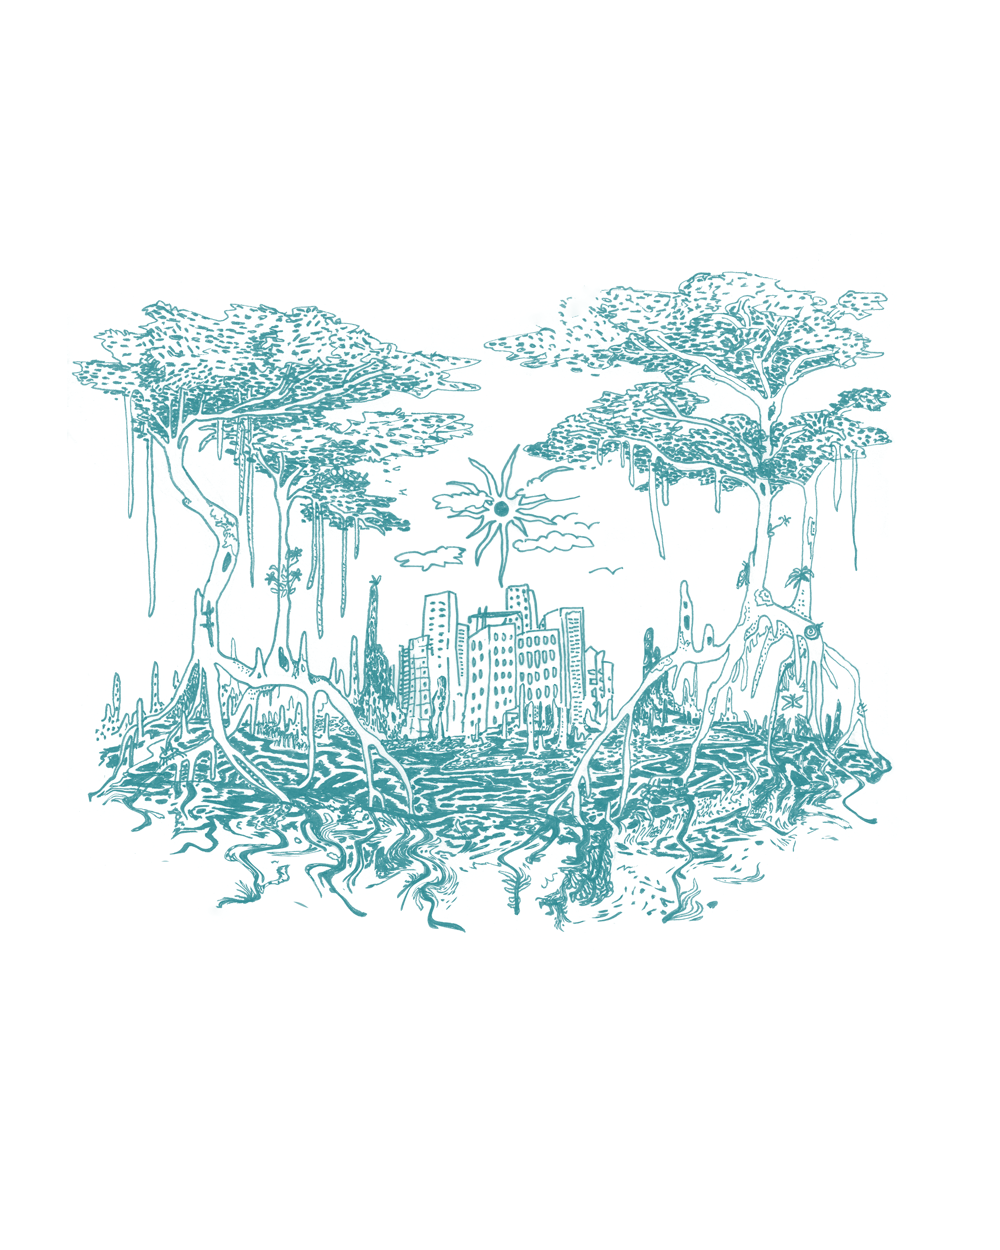
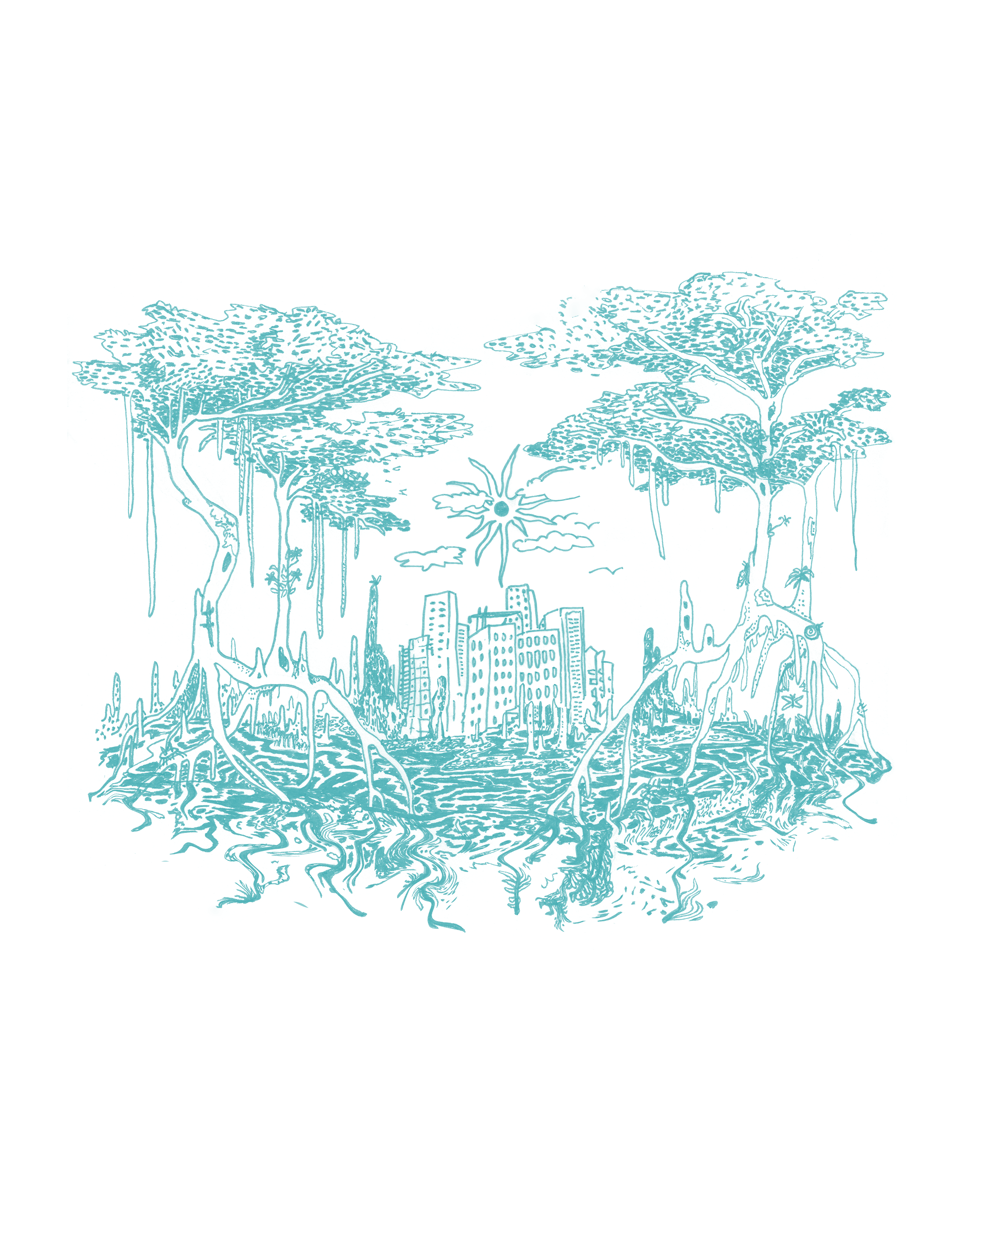
Fix mobile artwork scaling, brighter turquoise, pink button
The artwork stayed frozen on phones because the transform was applied to
the position:fixed element itself. Mobile browsers hoist fixed elements
into their own compositing layer and do not reliably re-rasterise them
during a scroll gesture, so the transform never showed. Pinning and
transforming are now separate elements: the fixed wrapper holds position,
an absolutely positioned child does the scaling.

Artwork retinted to a brighter turquoise and its starting opacity raised,
with the fade factor retuned so the faded end state lands where it
already was rather than rising with it.

Type reverted to the warm off-white. Sign-in button takes the mark's rose.

Changed region(s): [[0.093, 0.2184, 0.899, 0.7488], [0.744, 0.4368, 0.806, 0.468], [0.217, 0.7176, 0.248, 0.7488]]

diff --git a/app/globals.css b/app/globals.css
@@ -23,14 +23,15 @@
 
   /* Deep teal-black water, warm rose-tinted light. */
   --background: #0d1e20;
-  /* Type takes the same rose as the mark, so the palette reads as one system. */
-  --foreground: #ecc5c9;
-  --muted: #bb99a0;
+  --foreground: #e9dcdd;
+  --muted: #92a9ab;
   --accent: var(--teal-mid);
   --accent-contrast: #06181a;
   --hairline: #244145;
   --card: rgba(16, 38, 41, 0.72);
-  --artwork-opacity: 0.56;
+  /* Start brighter; the fade factor below is tuned so the faded end state lands
+     where it already was rather than rising with it. */
+  --artwork-opacity: 0.67;
   /* The inspo pink, which is exactly what it was printed for: rose on teal. */
   --mark: var(--rose);
 }
@@ -82,23 +83,37 @@ body {
   progress, published by ScrollProgress: the artwork shrinks and fades as the
   panel rises to cover it.
 */
+/*
+  Two elements on purpose. Mobile browsers hoist position:fixed elements into
+  their own compositing layer and do not reliably re-rasterise them during a
+  scroll gesture, so a transform applied to the fixed element itself can simply
+  never appear — which is why this animated on desktop and stayed frozen on a
+  phone. The outer element does the pinning; a normal absolutely positioned
+  child does the moving.
+*/
 .artwork-veil {
   position: fixed;
   inset: 0;
   z-index: 0;
   pointer-events: none;
+  overflow: hidden;
+}
+
+.artwork-veil-inner {
+  position: absolute;
+  inset: 0;
   background-image: url("/mangrove-teal.webp");
   background-repeat: no-repeat;
   background-position: center -4svh;
   background-size: auto min(128svh, 235vw);
-  opacity: calc(var(--artwork-opacity) * (1 - var(--sp, 0) * 0.4));
+  opacity: calc(var(--artwork-opacity) * (1 - var(--sp, 0) * 0.5));
   transform: scale(calc(1 - var(--sp, 0) * 0.33));
   transform-origin: center 32%;
   will-change: transform, opacity;
 }
 
 @media (min-width: 768px) {
-  .artwork-veil {
+  .artwork-veil-inner {
     background-position: center -13svh;
     /* Hard ceiling so a fullscreen window does not keep growing the drawing
        while the type stays put, which opens a gap under the title. */

diff --git a/app/page.tsx b/app/page.tsx
@@ -9,7 +9,9 @@ export default async function Home() {
       <ScrollProgress />
 
       {/* Mangrove roots holding a city — the thesis, drawn. Purely decorative. */}
-      <div className="artwork-veil" aria-hidden="true" />
+      <div className="artwork-veil" aria-hidden="true">
+        <div className="artwork-veil-inner" />
+      </div>
 
       <section className="hero px-6">
         <div className="rise mx-auto w-full max-w-md">
@@ -71,7 +73,7 @@ export default async function Home() {
                 >
                   <button
                     type="submit"
-                    className="mt-6 w-full rounded-lg bg-[var(--accent)] px-4 py-3 text-sm font-medium text-[var(--accent-contrast)] transition-opacity hover:opacity-90"
+                    className="mt-6 w-full rounded-lg bg-[var(--rose)] px-4 py-3 text-sm font-medium text-[#0d1e20] transition-opacity hover:opacity-90"
                   >
                     Continue with Google
                   </button>
